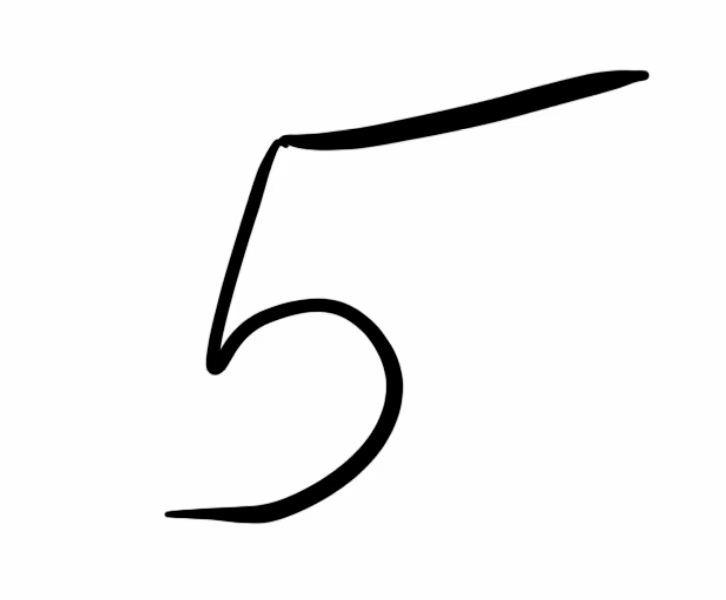
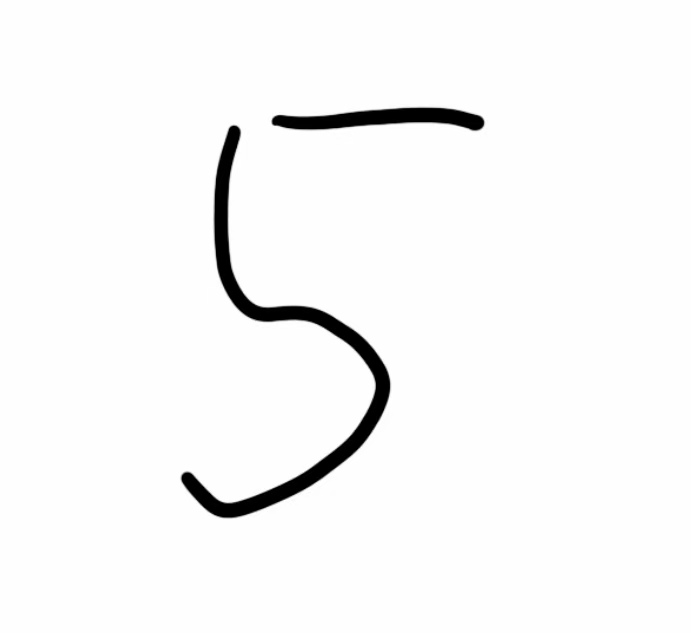
version:1.1 changes:recognize all single digits

Changed region(s): [[0.2127, 0.09, 0.9117, 0.9]]

diff --git a/main.py b/main.py
@@ -127,7 +127,7 @@ def preprocess_image(image_path, debug=False):
         plt.show()
 
     # 5. 二值化（强化黑白对比）
-    threshold = 128  # 可调整阈值（0-255）
+    threshold = 180  # 可调整阈值（0-255）
     new_img = new_img.point(lambda p: 0 if p < threshold else 255)
 
     if debug:
@@ -356,7 +356,7 @@ def main():
         train_model(model_type='CNN', epochs=15)  # 首次训练建议用CNN
 
     # 替换为你的图片路径
-    image_path = r"test number\9_image.jpg"
+    image_path = r"test number\7_image.jpg"
 
     # 执行识别（debug=True 可开启预处理调试）
     print(f"开始识别图像: {image_path}")
